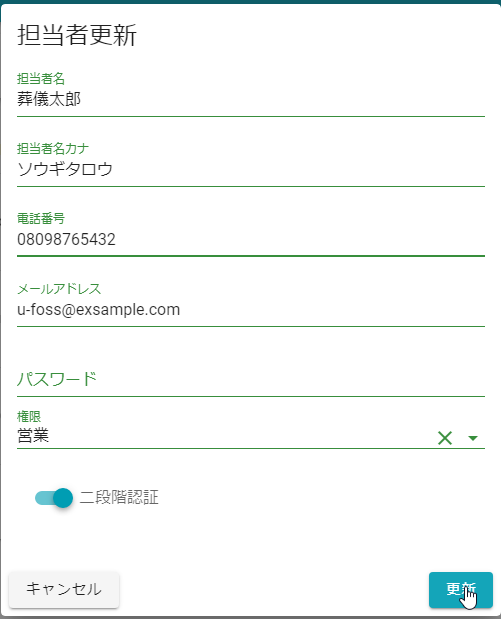
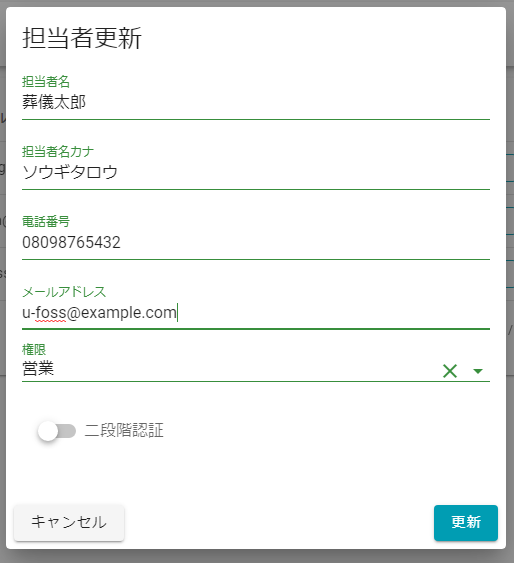
担当者更新画面からパスワード項目を削除

Changed region(s): [[0.0, 0.0, 1.0, 0.9964], [0.0599, 0.7247, 0.3293, 0.8455]]

diff --git a/docs/maintenance/staff_members.md b/docs/maintenance/staff_members.md
@@ -46,7 +46,7 @@ U-FOSSを利用するユーザを管理するための画面です.
 <br>
 
 2. 変更したい項目を修正し、**[更新]**をクリックします.  
-※パスワードの欄は**パスワードを変更したい**ときだけ入力します.  
+※パスワードは、この画面では変更できません.  
  ![編集画面](../asset/image/maintenance/staff_members/edit_view.png)
 <br>
 
